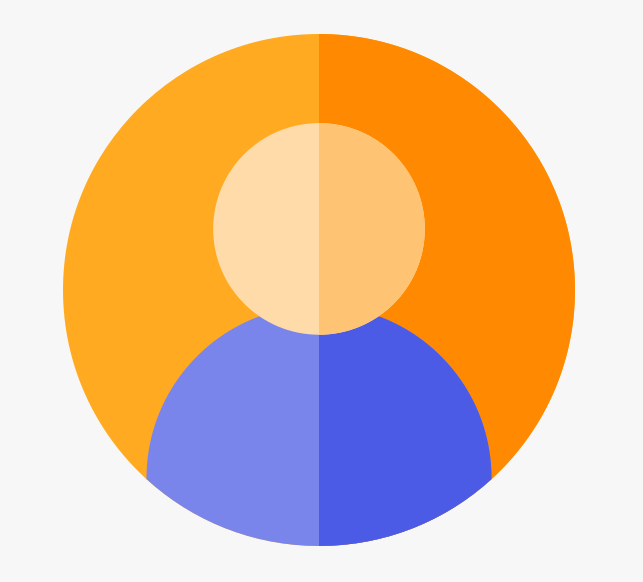
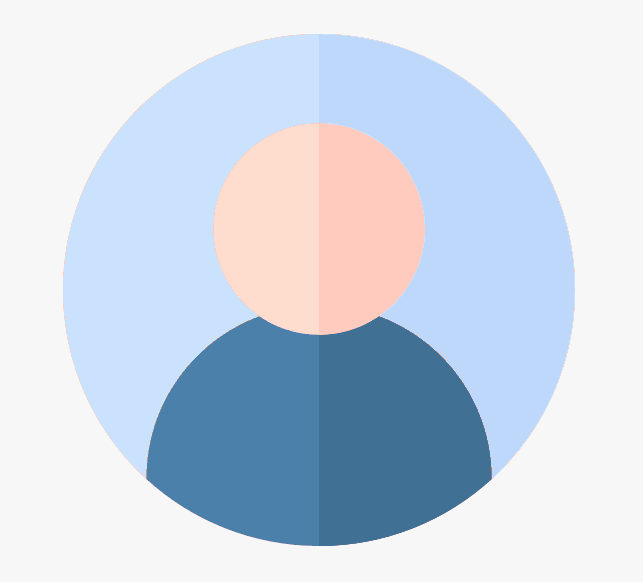
Update date conversion, themeand photo style

diff --git a/CarBookingApp.React/src/pages/availableRides/AvailableRides.jsx b/CarBookingApp.React/src/pages/availableRides/AvailableRides.jsx
@@ -1,10 +1,14 @@
-import { Grid, Box, Container }  from '@mui/material';
+import { Grid, Box, Container, Dialog, DialogContent, useMediaQuery, Button }  from '@mui/material';
 import Ride from '../../components/ride/Ride';
 import React, { useEffect, useState } from 'react';
 import axios from 'axios';
 import { parseErrorMessages } from '../../utils/ErrorUtils';
 import SearchBar from '../../components/searchBar/SearchBar';
 import Pagination from '@mui/material/Pagination';
+import { useTheme } from '@mui/material/styles';
+import ManageSearchIcon from '@mui/icons-material/ManageSearch';
+import { useAuth } from '../../components/provider/AuthProvider';
+import { useTokenDecoder } from '../../utils/TokenUtils';
 
 export default function AvailableRides() {
 
@@ -12,12 +16,26 @@ export default function AvailableRides() {
     const [rides, setRides] = useState([]);
     const [pageIndex, setPageIndex] = useState(1);
     const [totalPages, setTotalPages] = useState(1);
+    const [open, setOpen] = useState(false);
+    const { token } = useAuth();
+    const claims = useTokenDecoder(token);
 
+    const theme = useTheme();
+    const isSmallScreen = useMediaQuery(theme.breakpoints.down('sm'));
+
+    const buttonStyle={
+        fontSize: {
+            xs: '0.6rem',
+            sm: '0.7rem',
+            md: '0.8rem',
+            lg: '0.9rem'
+            }  
+    };
 
     const fetchRidesWithParams = (searchParams) => {
+      handleClose();
       const query = `destinationFrom=${searchParams.destinationFrom}&destinationTo=${searchParams.destinationTo}&dateOfTheRide=${searchParams.date}`;
-    
-      axios.get(`http://192.168.0.9:5239/ride/21?${query}`)
+      axios.get(`http://192.168.0.9:5239/ride/${claims.nameidentifier}?${query}`)
         .then((response) => {
             setRides(response.data.items);
             setTotalPages(response.data.totalPages);
@@ -30,7 +48,7 @@ export default function AvailableRides() {
 
     const fetchRides = () => {
     
-      axios.get(`http://192.168.0.9:5239/ride/21?PageNumber=${pageIndex}`)
+      axios.get(`http://192.168.0.9:5239/ride/${claims.nameidentifier}?PageNumber=${pageIndex}`)
         .then((response) => {
             setRides(response.data.items);
             setTotalPages(response.data.totalPages);
@@ -47,12 +65,37 @@ export default function AvailableRides() {
     }, 10);
   }, [pageIndex]);
 
+  const handleClickOpen = () => {
+    setOpen(true);
+  };
+
+  const handleClose = () => {
+    setOpen(false);
+  };
+
   return (
       <Container sx={{ display: 'flex', flexDirection: 'column', minHeight: '80vh', justifyContent: 'center'}}>
           <Grid container direction='row' alignItems='center' justifyContent='center'>
-              <Grid item>
-                  <SearchBar onSearch={fetchRidesWithParams} />
-              </Grid>
+                {isSmallScreen ? (
+                <Grid item>
+                    <Button variant="contained" 
+                            startIcon={<ManageSearchIcon fontSize='large' color='black' />}
+                            sx={buttonStyle}
+                            onClick={handleClickOpen}
+                    >
+                            Search
+                        </Button>
+                    <Dialog open={open} onClose={handleClose} fullWidth maxWidth="xs">
+                        <DialogContent>
+                            <SearchBar onSearch={fetchRidesWithParams} />
+                        </DialogContent>
+                    </Dialog>
+                </Grid>
+                ) : (
+                <Grid item>
+                    <SearchBar onSearch={fetchRidesWithParams} />
+                </Grid>
+                )}
           </Grid>
           <Box mb={5} />
           <Grid container spacing={5} direction='row' wrap='wrap' alignItems='center' justifyContent='center' flexGrow={2}>

diff --git a/CarBookingApp.React/src/components/searchBar/SearchBar.jsx b/CarBookingApp.React/src/components/searchBar/SearchBar.jsx
@@ -4,6 +4,7 @@ import { DemoContainer } from '@mui/x-date-pickers/internals/demo';
 import { AdapterDayjs } from '@mui/x-date-pickers/AdapterDayjs';
 import { LocalizationProvider } from '@mui/x-date-pickers/LocalizationProvider';
 import { DatePicker } from '@mui/x-date-pickers/DatePicker';
+import { transformDate } from '../../utils/DateTimeUtils';
 import axios from 'axios';
 import dayjs from 'dayjs';
 
@@ -23,7 +24,7 @@ export default function SearchBar({ onSearch }) {
   }, []);
 
   const fetchDestinations = () => {
-    axios.get("http://localhost:5239/destination/pick/name")
+    axios.get("http://192.168.0.9:5239/destination/pick/name")
       .then((response) => {
         const topCities = response.data.map(city => ({ label: city}));
         setDestinations(topCities);
@@ -39,7 +40,7 @@ export default function SearchBar({ onSearch }) {
 
   const checkDateValid = () => {
     const re = /^\d{4}-(0[1-9]|1[0-2])-(0[1-9]|[12]\d|3[01])$/;
-    const birthday = transformDate();
+    const birthday = transformDate(date);
 
     if (re.test(birthday)) {
         setDateValid(true);
@@ -48,17 +49,6 @@ export default function SearchBar({ onSearch }) {
         setDateValid(false);
     }
 };
-
-    function transformDate() {
-        const formatedDate = new Date(date).toLocaleString().split(",")[0];
-        const [month, day, year] = formatedDate.split('/');
-
-        if (month && day && year) {
-            return `${year}-${month.padStart(2, '0')}-${day.padStart(2, '0')}`;
-        } else {
-            return null;
-        }
-    };
 
 const validateInputs = () => {
     checkDateValid();
@@ -74,7 +64,7 @@ const validateInputs = () => {
   };
 
   const searchParams = {
-    date: transformDate(),
+    date: transformDate(date),
     destinationFrom,
     destinationTo,
     seats,

diff --git a/CarBookingApp.React/src/components/passengerDetails/PassengerDetails.jsx b/CarBookingApp.React/src/components/passengerDetails/PassengerDetails.jsx
@@ -4,6 +4,7 @@ import EmailIcon from '@mui/icons-material/Email';
 import PhoneIcon from '@mui/icons-material/Phone';
 import { styled } from '@mui/system';
 import { calculateAge } from '../../utils/DateTimeUtils';
+import getAvatarSrc from '../../utils/AvatarUtils';
 
 export default function PassengerDetails({ passengers }) {
     const typographyStyle = {
@@ -42,7 +43,8 @@ export default function PassengerDetails({ passengers }) {
                     <Box key={passenger.id} sx={{ p: 2 }}>
                         <Grid container spacing={2} alignItems="center">
                             <Grid item>
-                                <Avatar sx={{ bgcolor: 'primary.main', width: 56, height: 56 }}>
+                                <Avatar sx={{ bgcolor: 'primary.main', width: 56, height: 56 }}
+                                        src={getAvatarSrc(passenger.gender)}>
                                     {passenger.firstName.charAt(0)}{passenger.lastName.charAt(0)}
                                 </Avatar>
                             </Grid>

diff --git a/CarBookingApp.React/src/components/ownerDetails/OwnerDetails.jsx b/CarBookingApp.React/src/components/ownerDetails/OwnerDetails.jsx
@@ -6,6 +6,7 @@ import DirectionsCarIcon from '@mui/icons-material/DirectionsCar';
 import InfoIcon from '@mui/icons-material/Info';
 import { styled } from '@mui/system';
 import { calculateAge } from '../../utils/DateTimeUtils';
+import getAvatarSrc from '../../utils/AvatarUtils';
 
 export default function OwnerDetails({ owner }) {
     const typographyStyle = {
@@ -39,7 +40,10 @@ export default function OwnerDetails({ owner }) {
             <Box sx={{ p: 2 }}>
                 <Grid container spacing={2} alignItems="center">
                     <Grid item>
-                        <Avatar sx={{ bgcolor: 'secondary.main', width: 56, height: 56 }}>
+                        <Avatar 
+                            sx={{ bgcolor: 'secondary.main', width: 50, height: 50 }}
+                            src={getAvatarSrc(owner.gender)}
+                        >
                             {owner.firstName.charAt(0)}{owner.lastName.charAt(0)}
                         </Avatar>
                     </Grid>

diff --git a/CarBookingApp.React/src/components/ride/Ride.jsx b/CarBookingApp.React/src/components/ride/Ride.jsx
@@ -2,6 +2,7 @@ import { Box, Avatar, Typography, Button, Divider } from "@mui/material";
 import { getDateFromISO, getTimeFromISO} from "../../utils/DateTimeUtils";
 import React, { useEffect, useState } from 'react';
 import RideDetails from "../../pages/rideDetails/RideDetails";
+import getAvatarSrc from "../../utils/AvatarUtils";
 
 export default function Ride({ride}) {
     const [openRideDetails, setOpenRideDetails] = useState(false);
@@ -85,7 +86,7 @@ export default function Ride({ride}) {
     <Box sx={mainBoxStyle}>
             <Box align='center'>
                 <Avatar 
-                    src="src/assets/images/profile-img-man.png" 
+                    src={getAvatarSrc(ride.ownerGender)}
                     sx={avatarStyle}
                 />
                 <Typography sx={headTypographyStyle} variant="body1">{ride.ownerName}</Typography>

diff --git a/CarBookingApp.React/src/components/driverInfoTab/DriverInfoTab.jsx b/CarBookingApp.React/src/components/driverInfoTab/DriverInfoTab.jsx
@@ -1,6 +1,7 @@
 import { Box, Typography, Button, Divider } from '@mui/material';
 import DirectionsCarIcon from '@mui/icons-material/DirectionsCar';
 import InfoIcon from '@mui/icons-material/Info';
+import { styled } from '@mui/system';
 
 export default function DriverInfoTab({ userInfo, handleUpgrade }) {
 
@@ -11,6 +12,22 @@ export default function DriverInfoTab({ userInfo, handleUpgrade }) {
           md: '1.0rem'
         }
       };
+
+    const iconStyle = {
+      fontSize: {
+        xs: '1rem',
+        sm: '1.2rem',
+        md: '1.5rem',
+        lg: '1.7rem'
+      },
+      marginRight: '8px'
+    };
+    
+    const DetailBox = styled(Box)(({ theme }) => ({
+      display: 'flex',
+      alignItems: 'center',
+      padding: theme.spacing(1)
+    }));
 
   return (
     <Box sx={{ mt: 3, px: 3 }}>

diff --git a/CarBookingApp.React/src/components/userInfoTab/UserInfoTab.jsx b/CarBookingApp.React/src/components/userInfoTab/UserInfoTab.jsx
@@ -1,6 +1,7 @@
 import { Box, Typography, Button, Avatar, Divider } from '@mui/material';
 import { deepPurple } from '@mui/material/colors';
 import { styled } from '@mui/system';
+import getAvatarSrc from '../../utils/AvatarUtils';
 
 export default function UserInfoTab({userInfo, setOpen}) {
 
@@ -45,7 +46,7 @@ export default function UserInfoTab({userInfo, setOpen}) {
   return (
     <Box sx={{ mt: 3 }}>
       <Box sx={{ display: 'flex', alignItems: 'center', mb: 3 }}>
-      <Avatar src="src/assets/images/profile-img-man.png" 
+      <Avatar src={getAvatarSrc(userInfo.gender)}
               sx={{ bgcolor: deepPurple[500], width: 56, height: 56, mr: 2 }}
       >
         {userInfo.firstName[0]}

diff --git a/CarBookingApp.React/src/App.jsx b/CarBookingApp.React/src/App.jsx
@@ -21,16 +21,16 @@ const themeOptionsLight = {
 
 const themeOptionsDark = {
   palette: {
-    type: 'dark',
+    mode: 'dark',
     primary: {
-      main: '#560C0C',
+      main: '#993333',
     },
     secondary: {
-      main: '#6811da',
+      main: '#993333',
     },
     background: {
-      default: '#292929',
-      paper: '#989292',
+      default: '#1E1E1D',
+      paper: '#1E1E1E',
     },
     text: {
       primary: 'rgba(255,255,255,0.87)',
@@ -38,7 +38,7 @@ const themeOptionsDark = {
       disabled: 'rgba(255,255,255,0.38)',
       hint: 'rgba(255,255,255,0.38)',
     },
-  },
+  }
 };
 
 let theme = null;

diff --git a/CarBookingApp.React/src/utils/AvatarUtils.jsx b/CarBookingApp.React/src/utils/AvatarUtils.jsx
@@ -1,0 +1,20 @@
+
+const avatarImages = {
+    MALE: "src/assets/images/profile-img-man.png",
+    FEMALE: "src/assets/images/profile-img-woman.png",
+    OTHER: "src/assets/images/profile-img-other.png",
+    DEFAULT: "src/assets/images/profile-img-man.png"
+};
+
+export default function getAvatarSrc (gender) {
+    switch (gender) {
+        case "MALE":
+            return avatarImages.MALE;
+        case "FEMALE":
+            return avatarImages.FEMALE;
+        case "OTHER":
+            return avatarImages.OTHER;
+        default:
+            return avatarImages.DEFAULT;
+    }
+};

diff --git a/CarBookingApp.React/src/utils/DateTimeUtils.jsx b/CarBookingApp.React/src/utils/DateTimeUtils.jsx
@@ -19,12 +19,11 @@ import { differenceInYears } from 'date-fns';
 };
 
   export function transformDate(date) {
-    const formatedDate = new Date(date).toLocaleString().split(",")[0];
-    const [month, day, year] = formatedDate.split('/');
+    const transformedDate = new Date(date).toISOString().split("T")[0];
 
-    if (month && day && year) {
-        return `${year}-${month.padStart(2, '0')}-${day.padStart(2, '0')}`;
+    if (transformedDate) {
+        return transformedDate;
     } else {
         return null;
     }
-  };
+};

diff --git a/CarBookingApp.React/src/pages/rideDetails/RideDetails.jsx b/CarBookingApp.React/src/pages/rideDetails/RideDetails.jsx
@@ -15,7 +15,7 @@ export default function RideDetails(props) {
 
     const fetchRideDetails = () => {
         console.log()
-        axios.get(`http://localhost:5239/ride/details/${rideId}`)
+        axios.get(`http://192.168.0.9:5239/ride/details/${rideId}`)
           .then((response) => {
             setRideDetails(response.data);
             console.log(rideDetails.rideDetail)

diff --git a/CarBookingApp.React/src/components/sidebar/Sidebar.jsx b/CarBookingApp.React/src/components/sidebar/Sidebar.jsx
@@ -164,7 +164,7 @@ export default function Sidebar({theme, isDarkThemeOn, setDarkTheme}) {
           <IconButton 
             sx={{
               position: "absolute", 
-              marginLeft: "92vw" 
+              marginLeft: "86vw" 
             }}
             onClick={() => {setDarkTheme(!isDarkThemeOn)}}
           >
